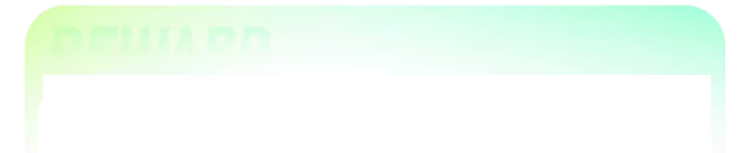
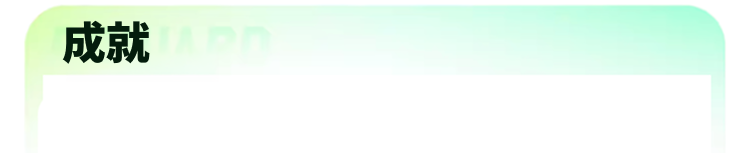
style: 邀請頁 —— 成就標題改用底圖版、邀請碼文字往下微調（老闆指定）
- 新版 bg.png 把「成就」畫進底圖，移除頁面上的 h2（避免疊字），
  列表 pt 用寬度百分比讓開圖上標題
- 紅旗邀請碼＋複製圖標下移 4px（RIBBON_CENTER_Y 0.9204→0.924）

Changed region(s): [[0.0613, 0.1307, 0.2147, 0.4183]]

diff --git a/frontend/app/invite/page.tsx b/frontend/app/invite/page.tsx
@@ -37,7 +37,7 @@ const QR_SIZE = 0.336; // 相對圖寬（= 269px / 800px）
  * QR 下方紅旗緞帶：x 212~595、y 1070~1139 → 中心 (50%, 92.04%)。
  * 旗上疊「邀請碼 XXXXXX＋複製圖標」；下載版只有字不含圖標（老闆指定）。
  */
-const RIBBON_CENTER_Y = 0.9204;
+const RIBBON_CENTER_Y = 0.924; // 老闆微調：文字與複製圖標往下一點
 const CODE_FONT_PX = 28; // 相對 800 寬的 canvas 字級
 const CODE_YELLOW = '#ffe600'; // 會員卡推薦碼同款黃
 
@@ -356,13 +356,13 @@ export default function InvitePage() {
         {/* ── 成就卡（老闆設計稿：REWARD 底紋綠粉框、四階成就列）──
             底圖只有卡片上緣（含 REWARD 底紋），下面接白底自然延伸 */}
         <div className="mb-14 mt-2 w-full bg-white">
+          {/* 「成就」標題已畫在底圖上（新版 bg.png），內容從標題下方開始
+              —— pt 用寬度百分比對齊圖上標題的下緣（62/750） */}
           <div
-            className="bg-top bg-no-repeat px-[6.5%] pb-2 pt-6"
+            className="bg-top bg-no-repeat px-[6.5%] pb-2 pt-[10%]"
             style={{ backgroundImage: 'url(/images/invite/card_reward.png)', backgroundSize: '100% auto' }}
           >
-            <h2 className="px-1 text-[22px] font-black leading-none text-neutral-900">成就</h2>
-
-            <div className="mt-3">
+            <div>
               {missions.length === 0 && (
                 <div className="space-y-4 px-1 py-3">
                   {[1, 2, 3, 4].map(i => (
